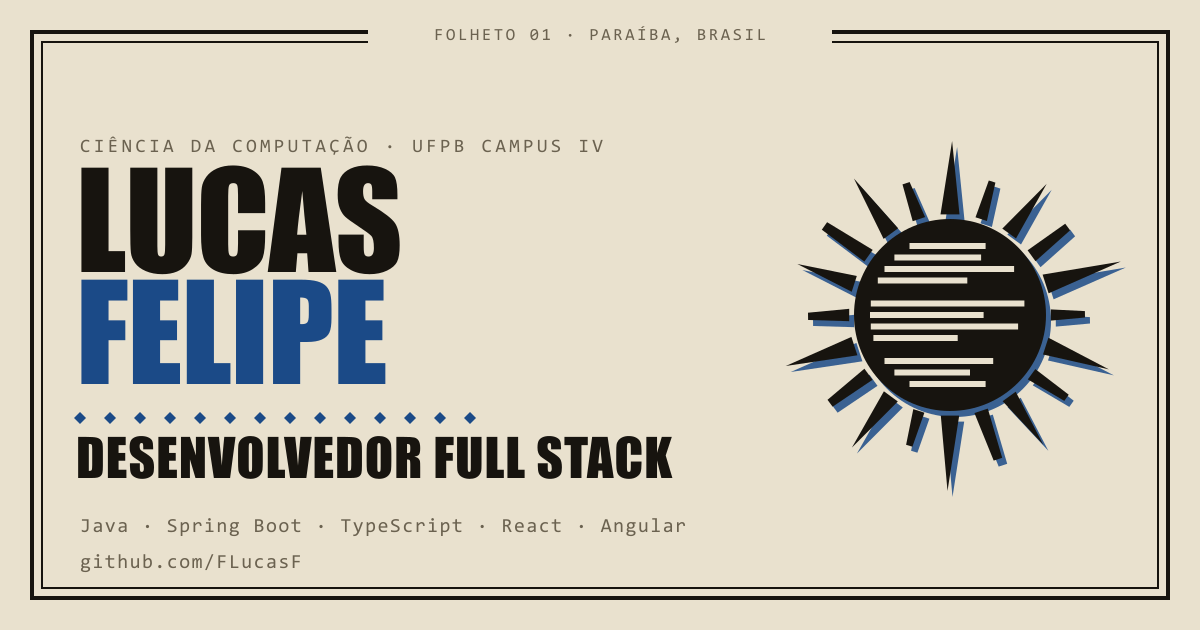
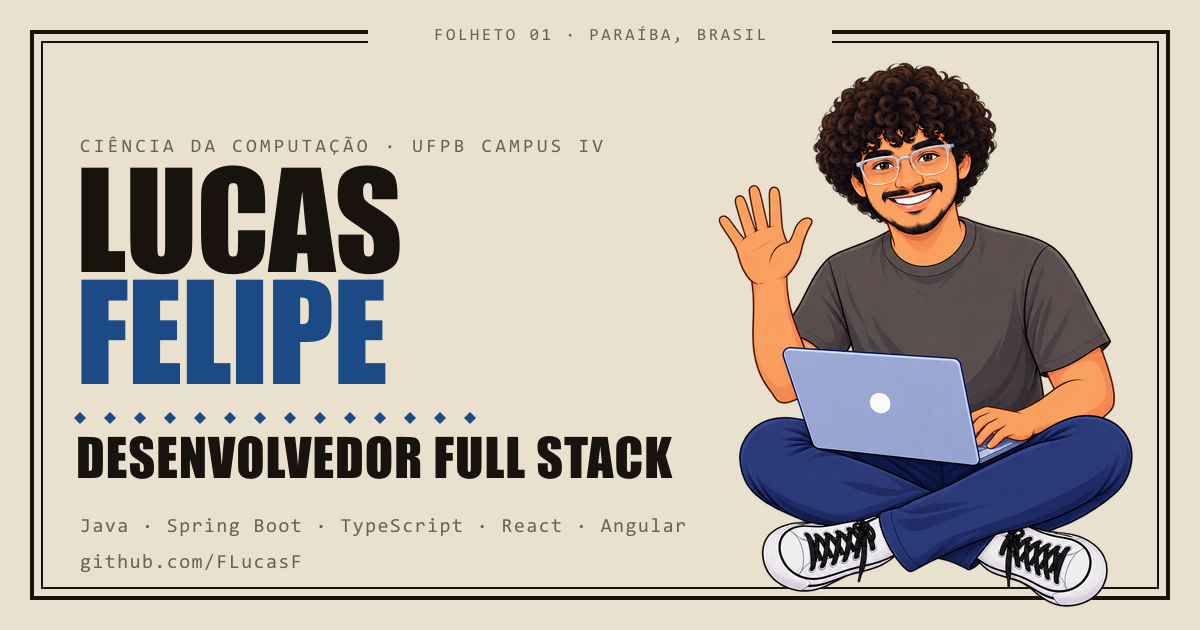
Põe o Lucas na capa, no lugar do sol
A ilustração que ele mandou substitui o bloco de xilogravura. Ela entra por
src/assets, então o Astro corta os WebP responsivos na build: o PNG de 1,2 MB
vira arquivos de 31 a 135 KB, e o navegador escolhe pelo tamanho da coluna.

A mesma ilustração passa a compor a imagem de compartilhamento, que também
perdeu o sol.

Woodcut.astro sai porque nada mais o renderiza.

Changed region(s): [[0.5858, 0.0905, 0.9558, 0.9651]]

diff --git a/README.md b/README.md
@@ -41,8 +41,12 @@ Outros pontos:
 - **Cores e fontes** — [`src/styles/global.css`](src/styles/global.css), no topo.
   Os tokens `--paper`, `--ink`, `--anil` e `--sol` definem os dois temas.
 - **Textos de navegação e rodapé** — [`src/i18n/ui.ts`](src/i18n/ui.ts).
-- **Imagem de compartilhamento** — [`scripts/og.mjs`](scripts/og.mjs). Depois de
-  mudar nome ou cargo, rode `npm run og` e faça commit do PNG novo.
+- **Ilustração da capa** — [`src/assets/lucas-acenando.png`](src/assets/lucas-acenando.png).
+  Para trocar, substitua o arquivo mantendo o fundo transparente. O Astro gera
+  os WebP responsivos sozinho na build.
+- **Imagem de compartilhamento** — [`scripts/og.mjs`](scripts/og.mjs). Ela compõe
+  a mesma ilustração sobre o fundo. Depois de trocar a ilustração, o nome ou o
+  cargo, rode `npm run og` e faça commit do PNG novo.
 
 ## Publicar no GitHub Pages
 
@@ -90,8 +94,8 @@ src/
   i18n/ui.ts          textos de interface e ajudantes de idioma
   layouts/Base.astro  <head>, tema sem piscar, observador da animação
   components/
-    Cover.astro       a capa: moldura, nome e bloco de xilogravura
-    Woodcut.astro     o sol, gerado por código a partir de uma geometria fixa
+    Cover.astro       a capa: moldura, nome e ilustração
+    Personagem.astro  a ilustração, otimizada pelo <Image> do Astro
     Section.astro     cabeçalho de seção reaproveitado pelas quatro seguintes
     Now.astro  Work.astro  Stack.astro  About.astro  Contact.astro
     Header.astro  Footer.astro  Page.astro
